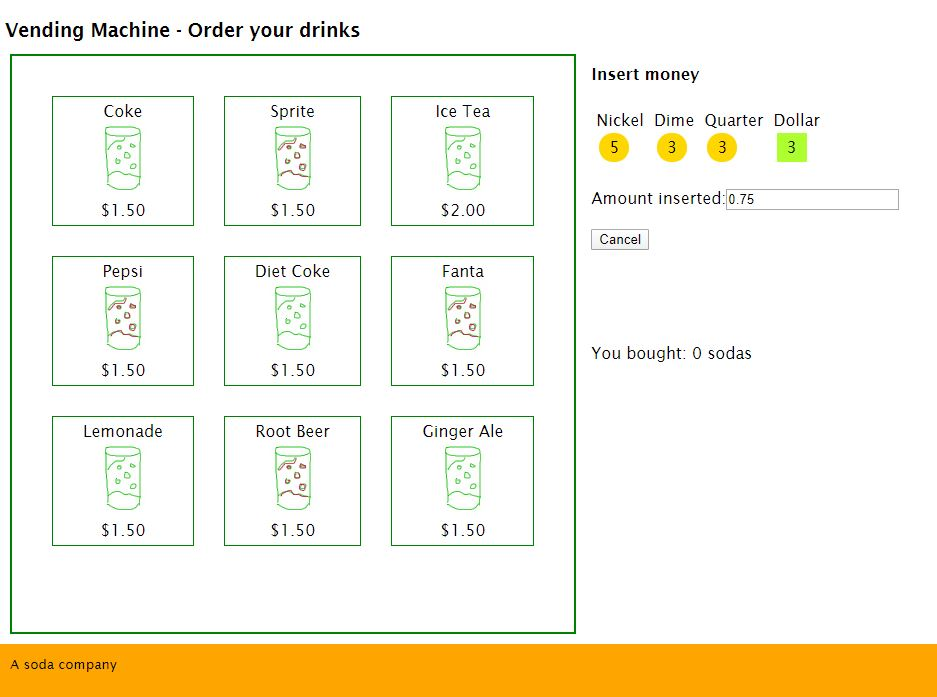
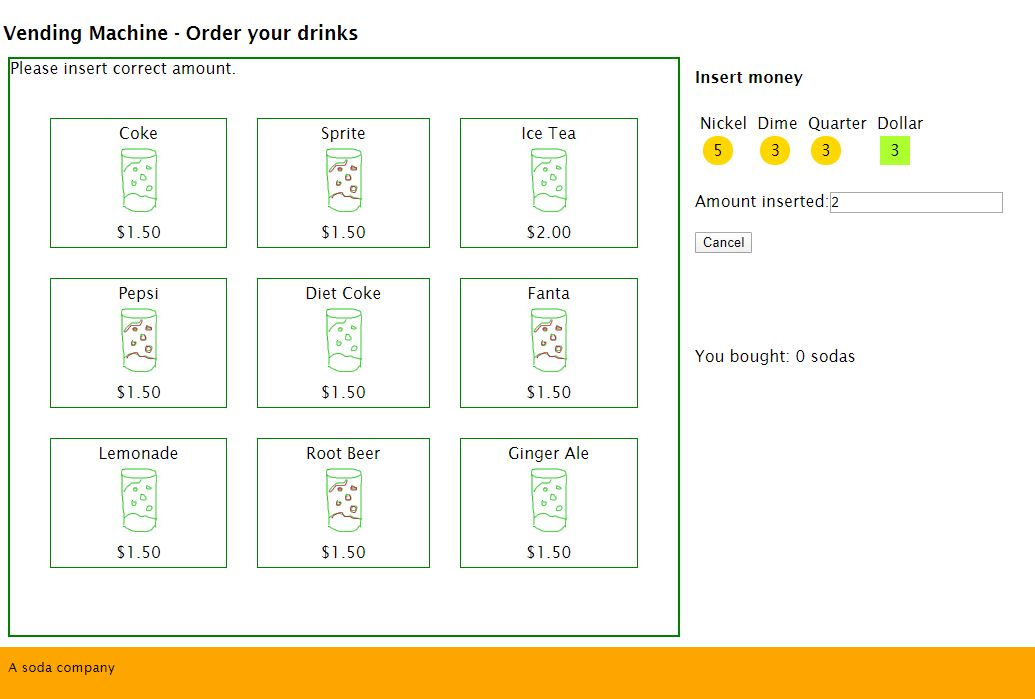
inserting money subscription

Changed region(s): [[0.0, 0.0301, 1.0, 0.9641]]

diff --git a/src/app/shared/bank.service.ts b/src/app/shared/bank.service.ts
@@ -1,15 +1,45 @@
-import { Money } from './money.model';
+import { IMoney } from './money.model';
+import { Subject } from 'rxjs';
 
 export class BankService {
 
-    money: Money[] = [
-        { id: 1, name: "Nickel", amount: 5, type: 'coin', value: 5 },
-        { id: 2, name: "Dime", amount: 3, type: 'coin', value: 10 },
-        { id: 3, name: "Quarter", amount: 3, type: 'coin', value: 25},
-        { id: 4, name: "Dollar" , amount: 3, type: 'dollar', value: 100}
+    moneyChanged= new Subject();
+
+    private insertedMoney: number = 0;
+    private money: IMoney;
+    private spentMonies : IMoney[];
+    private spentMoney: IMoney;
+
+    monies: IMoney[] = [
+        { id: 1, name: "Nickel", amount: 5, type: 'coin', value: .05 },
+        { id: 2, name: "Dime", amount: 3, type: 'coin', value: .10 },
+        { id: 3, name: "Quarter", amount: 3, type: 'coin', value: .25},
+        { id: 4, name: "Dollar" , amount: 3, type: 'dollar', value: 1.00}
     ]
 
+ 
+    resetInsertedMoney() {
+        this.insertedMoney = 0;
+    }
+
+    getMoneytInserted(): number  {
+        return this.insertedMoney;
+    }
+
     getMoney() {
-        return this.money;
+        this.spentMonies = [...this.monies];
+        return this.spentMonies;
+    }
+
+    moneySpent(money:IMoney) {
+        if (money.amount > 0 ) {
+            this.insertedMoney += money.value;
+            this.spentMonies.find(m => {
+                if (m.id === money.id && m.amount > 0) {
+                   m.amount--;
+                }
+            });
+            this.moneyChanged.next( this.spentMonies);
+        }
     }
 }

diff --git a/src/app/bank/bank.component.ts b/src/app/bank/bank.component.ts
@@ -1,31 +1,42 @@
-import { Component, OnInit } from '@angular/core';
-import { Money } from '../shared/money.model';
+import { Component, OnInit, OnDestroy } from '@angular/core';
+import { IMoney } from '../shared/money.model';
 import { BankService } from '../shared/bank.service';
-import { formatCurrency } from '@angular/common';
+import { Observable, Subscription } from 'rxjs';
 
 @Component({
   selector: 'app-bank',
   templateUrl: './bank.component.html',
   styleUrls: ['./bank.component.scss']
 })
-export class BankComponent implements OnInit {
+export class BankComponent implements OnInit, OnDestroy {
 
+  bankSubscription: Subscription;
   moneyInserted: number = 0;
-  money: Money[];
+  money: IMoney[];
 
-  constructor(private bankService: BankService) { }
+  constructor(private bankService: BankService ) { }
 
   ngOnInit(): void {
     this.money = this.bankService.getMoney();
   }
 
-  insertMoney(moneyInserted: number){
-    this.moneyInserted = this.moneyInserted * 100;
-    this.moneyInserted +=moneyInserted;
-    this.moneyInserted = this.moneyInserted / 100;
+  insertMoney(moneyInserted: IMoney){
+    // TODO fix formatting ie 2.00 not displaying using input
+    this.moneyInserted += moneyInserted.value;
+    this.bankService.moneySpent(moneyInserted);
+    this.bankService.moneyChanged
+    .subscribe( money =>{
+      // TODO update the coin amount
+      console.log(JSON.stringify(money));
+    })
   }
 
   onCancel(){
     this.moneyInserted = 0;
+    this.bankService.resetInsertedMoney();
+  }
+
+  ngOnDestroy(): void {
+    this.bankSubscription.unsubscribe();
   }
 }

diff --git a/src/app/inventory/inventory.component.ts b/src/app/inventory/inventory.component.ts
@@ -1,6 +1,7 @@
 import { Component, OnInit } from '@angular/core';
 import { ISoda } from '../shared/Soda.model';
 import { SodaService } from '../shared/soda.service';
+import { BankService } from '../shared/bank.service';
 
 @Component({
   selector: 'app-inventory',
@@ -9,13 +10,30 @@ import { SodaService } from '../shared/soda.service';
 })
 export class InventoryComponent implements OnInit {
 
+  canBuy: boolean = true;
+  moneyInserted: number;
   sodaList:ISoda[];
 
-  constructor(private sodaService : SodaService) { }
+  constructor(private sodaService : SodaService, private bankService: BankService) { }
 
   ngOnInit(): void {
     //TODO use observables later
     this.sodaList =  this.sodaService.getSodas();
+  }
+
+  onBuy(sodaSelected: ISoda):void {
+    // have money
+    this.moneyInserted = this.bankService.getMoneytInserted();
+    this.sodaList.find(s => {
+      if (s.price === this.moneyInserted && s.id === sodaSelected.id) {
+        //TODO add to cart
+        this.canBuy = true;
+      } else {
+        this.canBuy = false;
+      }
+    })
+    console.log(" inserted " + this.moneyInserted  + ' soda = ' + sodaSelected.price);
+    
   }
 
 }

diff --git a/src/app/inventory/inventory.component.html b/src/app/inventory/inventory.component.html
@@ -1,5 +1,7 @@
+<div *ngIf="!canBuy">Please insert correct amount.</div>
 <div class="soda-container">
-    <div *ngFor="let soda of sodaList" class="soda-button">
+   
+    <div *ngFor="let soda of sodaList" class="soda-button" (click)="onBuy(soda)">
         <div>{{ soda.name}}</div>
         <img src="{{ soda.img }}"/>
         <div>

diff --git a/src/app/bank/bank.component.html b/src/app/bank/bank.component.html
@@ -3,7 +3,7 @@
  
     <div>{{ money.name}}</div>
     <div [ngClass]="{coin:true, 'dollar': money.type==='dollar'}" class="coin"
-        (click)="insertMoney(money.value)">
+        (click)="insertMoney(money)">
         {{ money.amount}}
     </div> 
     

diff --git a/src/app/shared/money.model.ts b/src/app/shared/money.model.ts
@@ -1,4 +1,4 @@
-export interface Money {
+export interface IMoney {
     id: number,
     name: string,
     amount: number,
